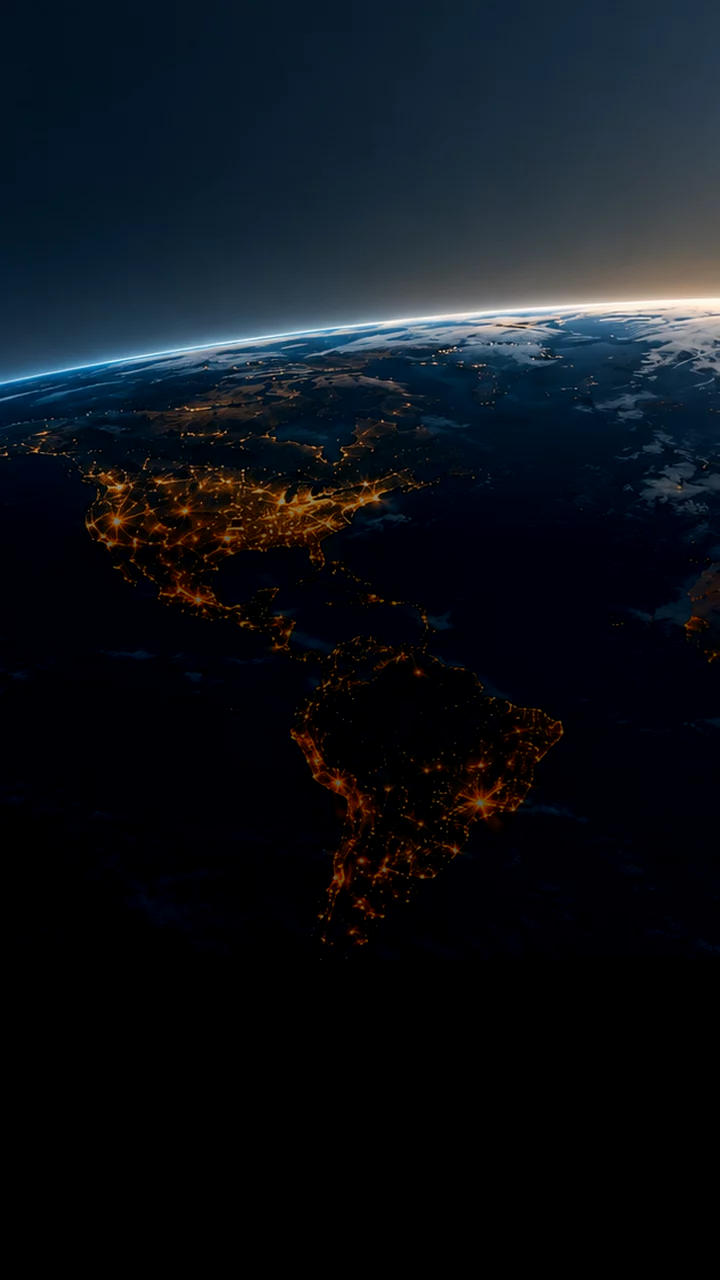
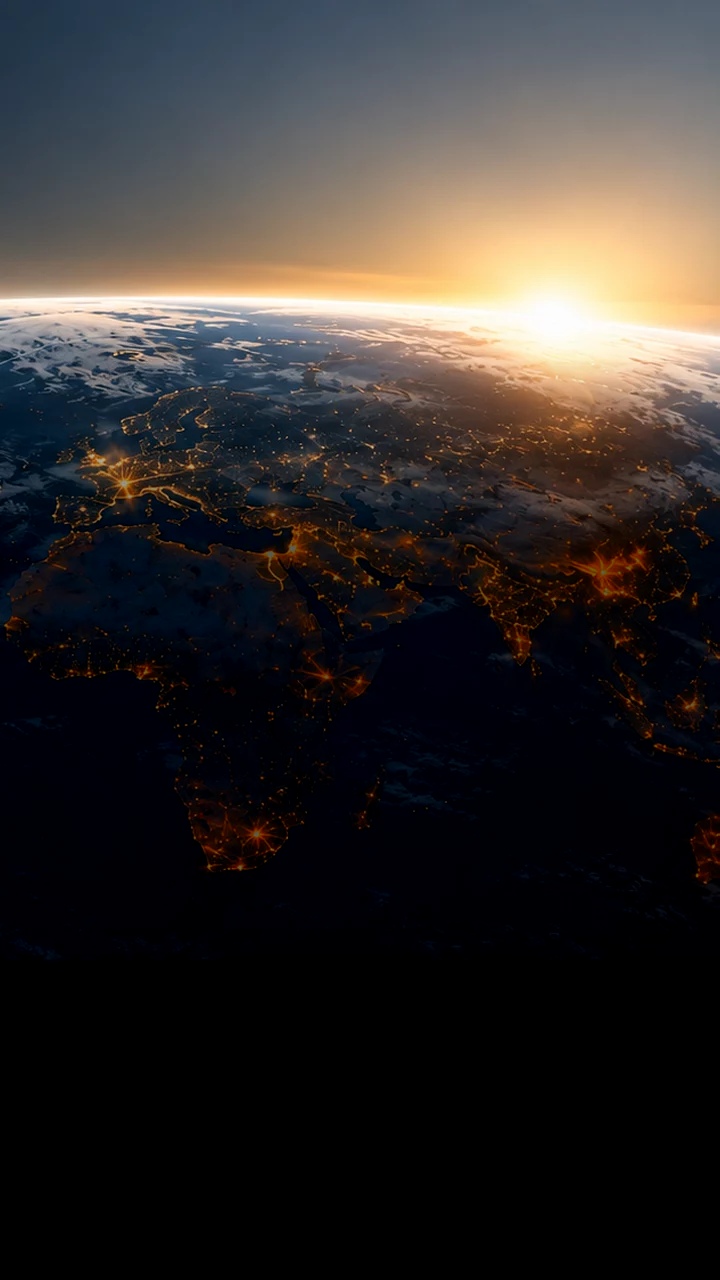
Abertura: opcao 19, no celular a imagem mostra o lado direito
Ela: "em mobile faca pegar mais o lado direito da imagem". O recorte do
celular da opcao 19 passa das Americas (centro) para a Europa, a Africa
e o sol no horizonte (lado direito). ?v=2. A home nao muda.

diff --git a/opcao-19.html b/opcao-19.html
@@ -1,6 +1,6 @@
 <!DOCTYPE html>
 <!-- OPCAO-19 DA ABERTURA (13/10/2026): copia temporaria do index.html com OUTRA IMAGEM de fundo
-     (a Terra a noite vista do espaco, com as luzes das cidades e o sol no horizonte, imagem enviada pela cliente), sem video e sem a camada de arcos, para o cliente comparar sem login da Vercel.
+     (a Terra a noite vista do espaco, com as luzes das cidades e o sol no horizonte, imagem enviada pela cliente; no celular, o lado direito), sem video e sem a camada de arcos, para o cliente comparar sem login da Vercel.
      Gerada por scratchpad/opcao_imagem_gerar.cjs; nao editar a mao. Apagar quando a escolha for feita. -->
 <html lang="pt-BR">
 <head>
@@ -2958,8 +2958,8 @@
          arcos eram tracados nas coordenadas do print; a camera que respira
          (.abertura-respira) continua. -->
     <picture>
-      <source media="(max-width: 900px)" srcset="fotos/opcao-19-cel.webp?v=1" width="720" height="1280">
-      <img class="abertura-poster" src="fotos/opcao-19.webp?v=1" alt="" width="1920" height="1080" fetchpriority="high" decoding="async">
+      <source media="(max-width: 900px)" srcset="fotos/opcao-19-cel.webp?v=2" width="720" height="1280">
+      <img class="abertura-poster" src="fotos/opcao-19.webp?v=2" alt="" width="1920" height="1080" fetchpriority="high" decoding="async">
     </picture>
     <!-- O HORIZONTE (13/10, "queria uma luz de horizonte amarela igual a do
          print"): o trecho da NASA olha o planeta de cima, sem borda. Entao a

diff --git a/README.md b/README.md
@@ -867,8 +867,10 @@ O manual pede movimento discreto, entao cada efeito tem uma razao.
     (14/10, "faca mais uma opcao com esta imagem mas nao mude a do site
     que esta em producao"): a Terra a noite vista do espaco, com as luzes
     das cidades e o sol no horizonte. Foto escura: rampa leve (`ESQ` 0,35
-    ate 70%), `PCX` 0,3, `CENTRO` 0,5, celular escurecido de baixo a
-    partir de 28% como a home.
+    ate 70%), `PCX` 0,3, celular escurecido de baixo a partir de 28% como
+    a home. Primeiro o celular recortava o centro (`CENTRO` 0,5, as
+    Americas); ela: "em mobile faca pegar mais o lado direito da imagem"
+    -> `CENTRO` 0,82 (Europa, Africa e o sol), `?v=2`.
 
   As opcoes 7, 8 e 9 sao geradas por `scratchpad/opcao_video_gerar.cjs`,
   que parte da `opcao-6.html` (texto a esquerda; com "direita" o bloco vai
